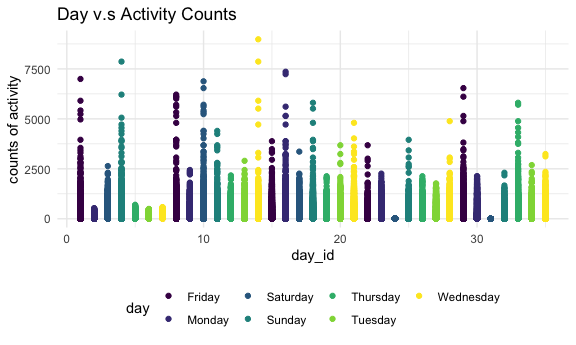
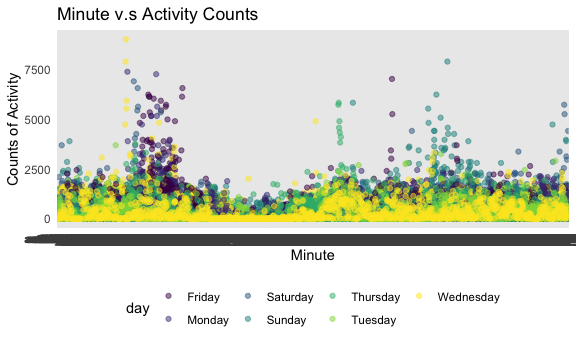
Problem 2 - graph revised

diff --git a/p8105_hw3_yl5221.md b/p8105_hw3_yl5221.md
@@ -222,7 +222,7 @@ accel_df =
   mutate(day_of_week = ifelse(day == "Saturday", "weekend", ifelse(day == "Sunday", "weekend", "weekday"))) %>% 
   pivot_longer(
     starts_with("activity"),
-    names_to = "hour",
+    names_to = "minute",
     values_to = "counts"
   )
 ```
@@ -267,16 +267,20 @@ accel_df %>%
     ## 10     2 Tuesday   423245 
     ## # … with 25 more rows
 
-Graph presenting activity counts for each day
+#### Graph presenting activity counts for each day
+
+Trends of graph: Most of Wednesday’s and Tuesday’s activity counts are
+low compared to counts on other days. There’s also trend of one week of
+high counts followed by one week of low counts.
 
 ``` r
 accel_df %>% 
-  ggplot(aes(x = day_id, y = counts, color = day)) +
-  geom_point() +
+  ggplot(aes(x = minute, y = counts, color = day)) +
+  geom_point(alpha = 0.5) +
     labs(
-    title = "Day v.s Activity Counts",
-    x = "day_id",
-    y = "counts of activity"
+    title = "Minute v.s Activity Counts",
+    x = "Minute",
+    y = "Counts of Activity"
   ) 
 ```
 
